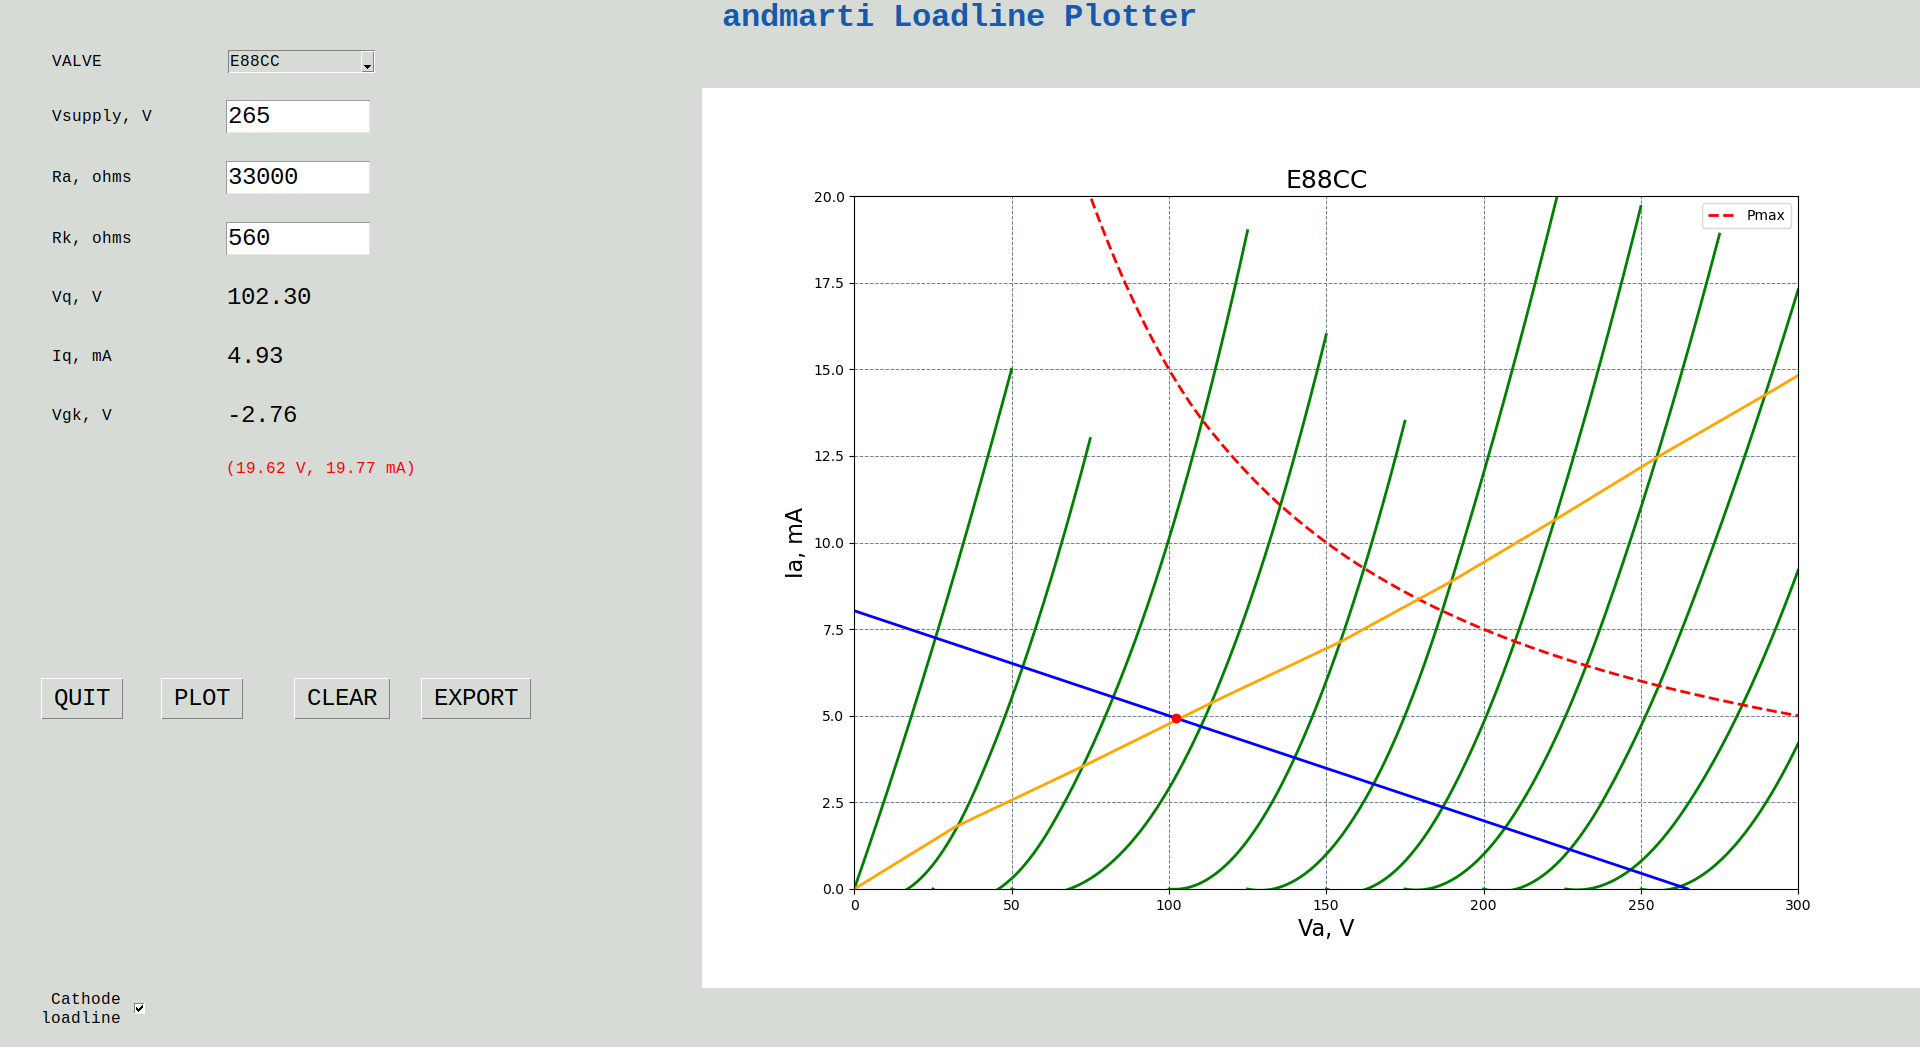
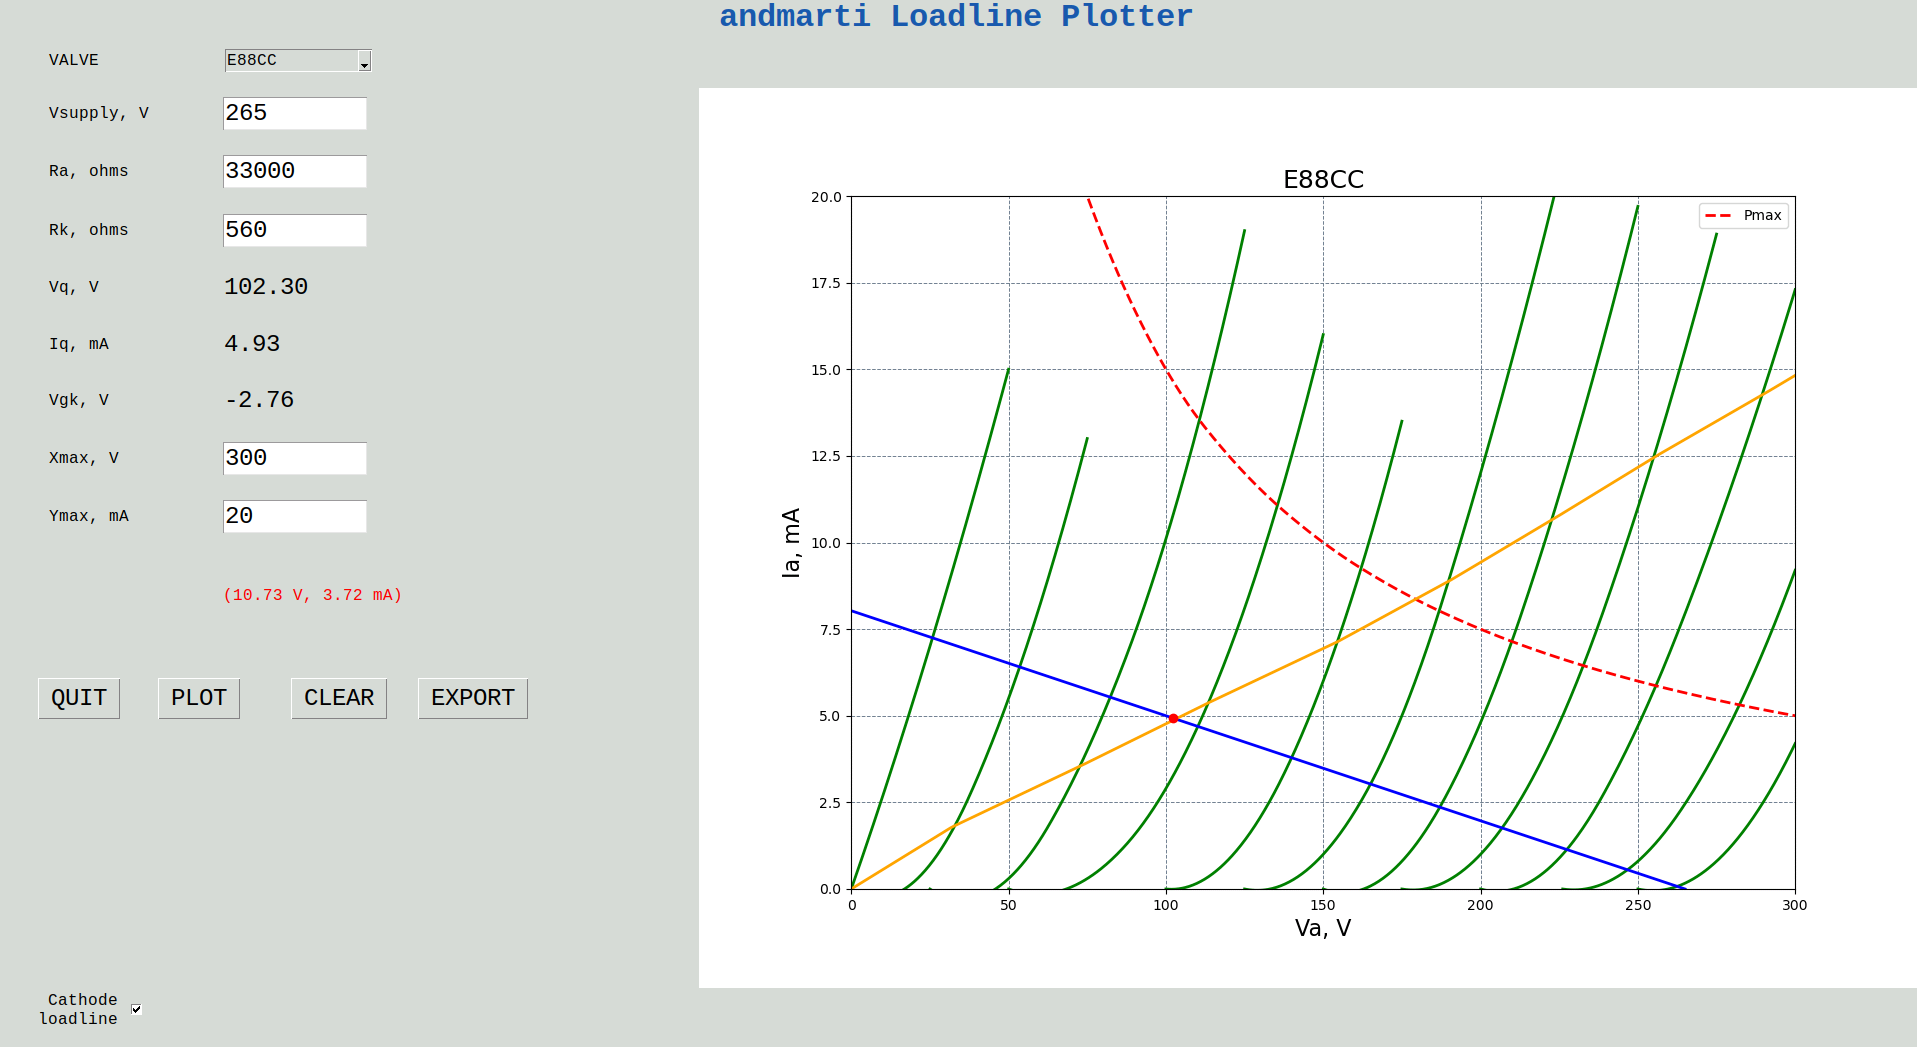
Update TODO and screenshot

diff --git a/plotter.py b/plotter.py
@@ -1,7 +1,9 @@
 """
-maxX, maxY
-import specs per tube
-picture
+TODO
+import specs per valve
+add validations of user input
+auto refresh when changing data
+add picture
 gain and freq. response calculations
 """
 import pandas as pd
